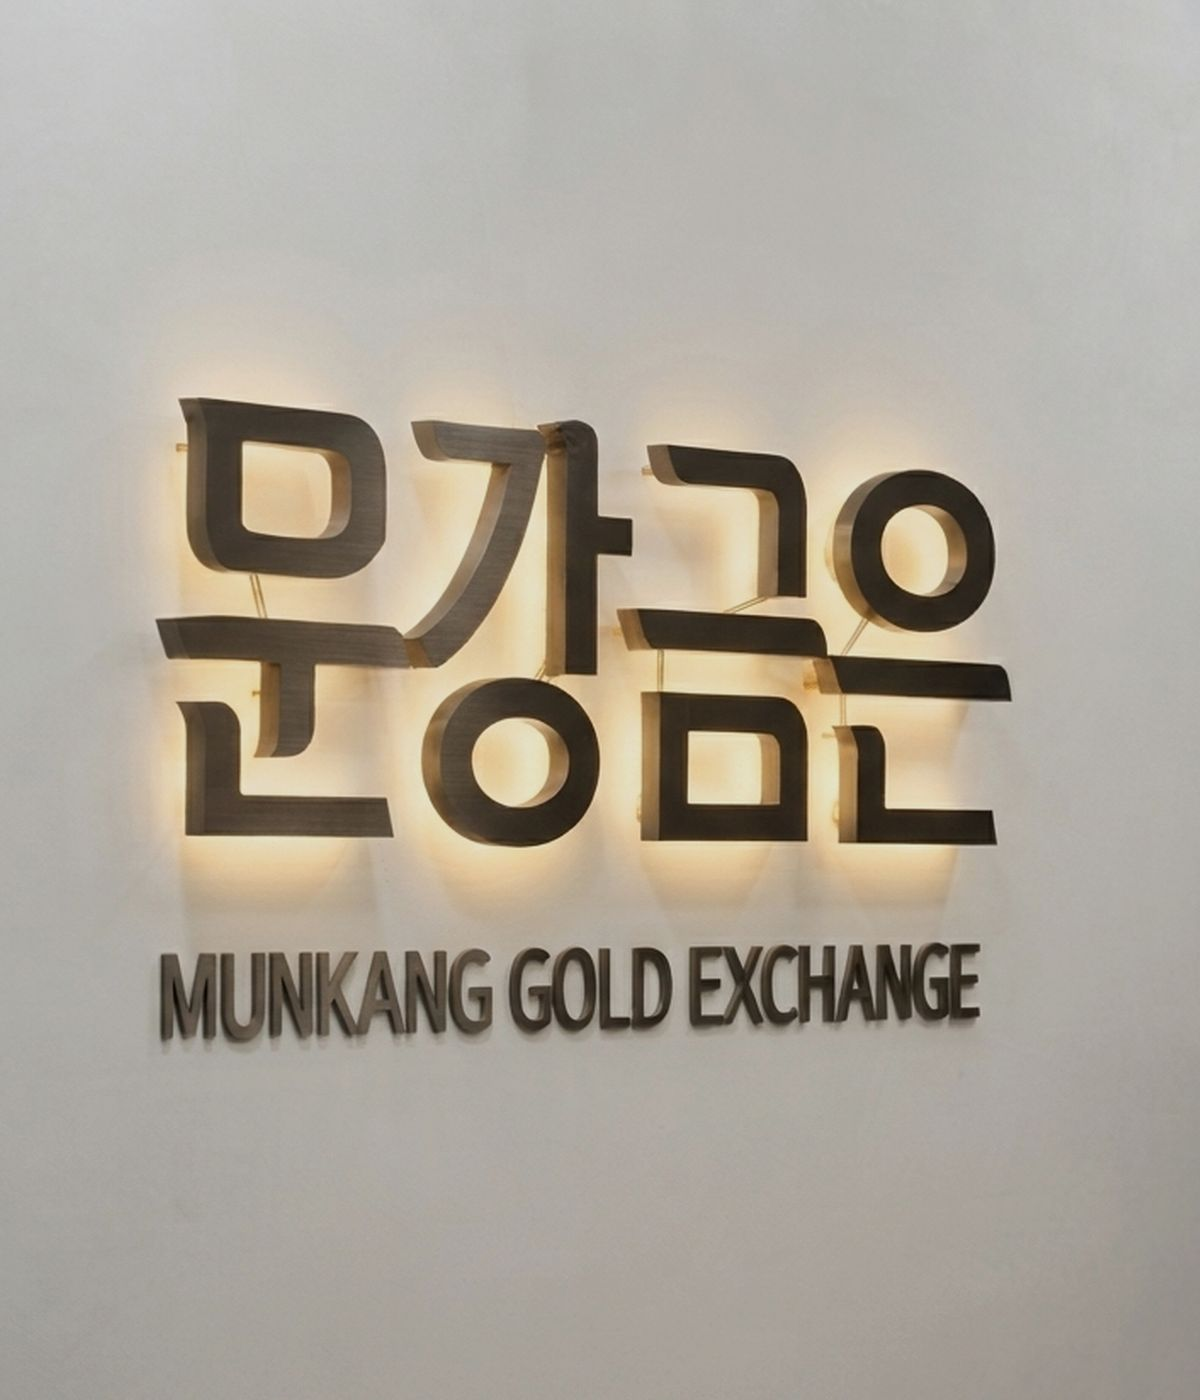
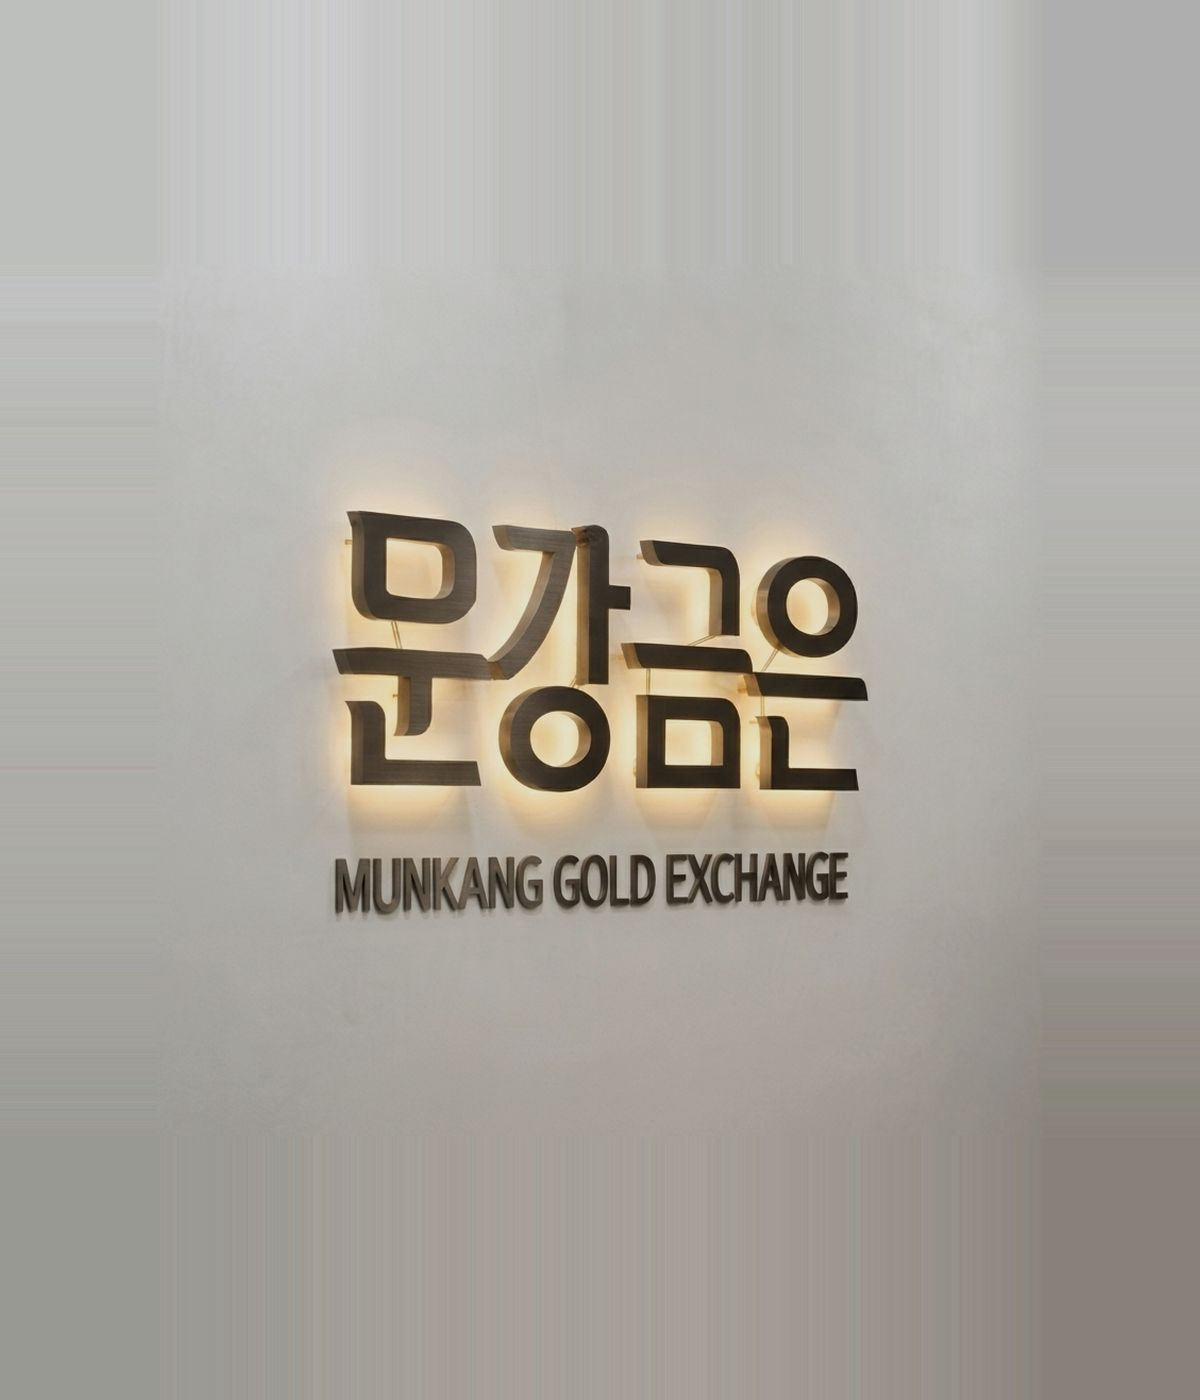
fix: 배너를 스포트라이트식 페이드 대신 벽면 확장 + 한쪽 그라데이션으로 자연스럽게 연결

Changed region(s): [[0.0925, 0.2457, 1.0, 0.9521]]

diff --git a/public/css/site.css b/public/css/site.css
@@ -359,12 +359,14 @@ body{background:#fff}
 .crumbs li+li::before{color:var(--muted)}
 .cta-band .btn-kakao{border-color:transparent}
 
-/* 메인 배너 — 사진을 축소해 얹고 가장자리를 마스크로 흐려 흰 배경과 자연스럽게 잇는다 (09-16) */
-.hero-visual{background:none}
-.hero-visual::before{content:"";position:absolute;inset:10% 14%;background:var(--hero-img,url("/img/hero.jpg")) center center/cover no-repeat;-webkit-mask-image:linear-gradient(90deg,transparent 0,#000 14%,#000 86%,transparent 100%),linear-gradient(180deg,transparent 0,#000 12%,#000 88%,transparent 100%);mask-image:linear-gradient(90deg,transparent 0,#000 14%,#000 86%,transparent 100%),linear-gradient(180deg,transparent 0,#000 12%,#000 88%,transparent 100%);-webkit-mask-composite:source-in;mask-composite:intersect}
-.hero-visual::after{display:none}
+/* 메인 배너 — 사진은 배너 칸을 꽉 채우고, 본문과 만나는 쪽만 길게 흐려 이어지게 한다 (09-16) */
+.hero-grid{grid-template-columns:.62fr 1.38fr}
+.hero-visual{background:var(--hero-img,url("/img/hero.jpg")) center center/cover no-repeat;min-height:460px}
+.hero-visual::before{content:none}
+.hero-visual::after{content:"";position:absolute;inset:0;display:block;background:linear-gradient(90deg,rgba(255,255,255,0) 55%,rgba(255,255,255,.55) 80%,#fff 100%)}
 @media (max-width:900px){
-  .hero-visual{height:44vh;max-height:380px}
-  .hero-visual::before{inset:6% 8%;background-image:var(--hero-img-m,url("/img/hero-mobile.jpg"))}
+  .hero-grid{grid-template-columns:1fr}
+  .hero-visual{height:42vh;max-height:360px;min-height:0;background-image:var(--hero-img-m,url("/img/hero-mobile.jpg"));background-position:center 45%}
+  .hero-visual::after{background:linear-gradient(180deg,rgba(255,255,255,0) 52%,rgba(255,255,255,.6) 82%,#fff 100%)}
   .hv-cue{bottom:6px}
 }

diff --git a/scripts/make-banner.py b/scripts/make-banner.py
@@ -196,6 +196,30 @@ def panel(im, w, h, top_bias=0.5):
     return canvas
 
 
+def wall_extend(im, w, h, photo_ratio=0.74, sign_center=0.40):
+    """배너 칸에 맞춰 사진을 넣되, 사진이 차지하는 비율(photo_ratio)만큼만 쓰고
+    남는 위아래·좌우는 사진 맨 끝 줄 색을 그대로 늘려 잇는다. 벽면이 균일해 경계가 보이지 않는다."""
+    # 간판이 가운데 오도록 원본을 먼저 자른다
+    half = min(sign_center, 1 - sign_center)
+    im = im.crop((int(im.width * max(0, sign_center - half)), 0, int(im.width * min(1, sign_center + half)), im.height))
+    tw = max(1, int(w * photo_ratio)); th = max(1, int(im.height * tw / im.width))
+    if th > h * photo_ratio:
+        th = int(h * photo_ratio); tw = max(1, int(im.width * th / im.height))
+    base = im.resize((tw, th), Image.LANCZOS)
+    canvas = Image.new('RGB', (w, h))
+    x0 = (w - tw) // 2; y0 = (h - th) // 2
+    canvas.paste(base, (x0, y0))
+    if x0 > 0:  # 좌우로 가장자리 색을 늘린다
+        canvas.paste(base.crop((0, 0, 1, th)).resize((x0, th), Image.NEAREST), (0, y0))
+        canvas.paste(base.crop((tw - 1, 0, tw, th)).resize((w - tw - x0, th), Image.NEAREST), (x0 + tw, y0))
+    top = canvas.crop((0, y0, w, y0 + 1))
+    bottom = canvas.crop((0, y0 + th - 1, w, y0 + th))
+    if y0 > 0:
+        canvas.paste(top.resize((w, y0), Image.NEAREST), (0, 0))
+        canvas.paste(bottom.resize((w, h - th - y0), Image.NEAREST), (0, y0 + th))
+    return canvas
+
+
 def photo_on_wall(im, w, h, scale=0.6):
     """사진을 배경(벽 톤)과 같은 캔버스 위에 축소해 올린다 — 경계가 눈에 띄지 않게."""
     tone = im.crop((int(im.width * 0.02), int(im.height * 0.05), int(im.width * 0.16), int(im.height * 0.35))).resize((1, 1), Image.BOX).getpixel((0, 0))
@@ -223,7 +247,7 @@ def photo_on_wall(im, w, h, scale=0.6):
 def hero_desktop(src):
     """데스크톱 히어로 왼쪽 패널용 — 간판이 화면 왼쪽 절반을 채운다(글자는 오른쪽 어두운 면에 올라감)."""
     w, h = 1200, 1500  # 왼쪽 패널이 세로로 길다
-    im = cover(grade(src), w, h, focus=0.2) if LIGHT else (panel(grade(src), w, h, 0.46) if DARK else cover(grade(src), w, h, focus=0.5))
+    im = wall_extend(grade(src), w, h) if LIGHT else (panel(grade(src), w, h, 0.46) if DARK else cover(grade(src), w, h, focus=0.5))
     if not DARK:
         im = ImageEnhance.Brightness(im).enhance(0.88)
     return im if LIGHT else grain(vignette(im, 26))
@@ -232,7 +256,7 @@ def hero_desktop(src):
 def hero_mobile(src):
     """모바일 상단 간판 블록용 — 세로로 길게, 간판을 가운데."""
     w, h = 1200, 1400
-    im = cover(grade(src), w, h, focus=0.22) if LIGHT else (panel(grade(src), w, h, 0.42) if DARK else cover(grade(src), w, h, focus=0.5))
+    im = wall_extend(grade(src), w, h) if LIGHT else (panel(grade(src), w, h, 0.42) if DARK else cover(grade(src), w, h, focus=0.5))
     if not DARK:
         im = ImageEnhance.Brightness(im).enhance(0.9)
     return im if LIGHT else grain(vignette(im, 20))
